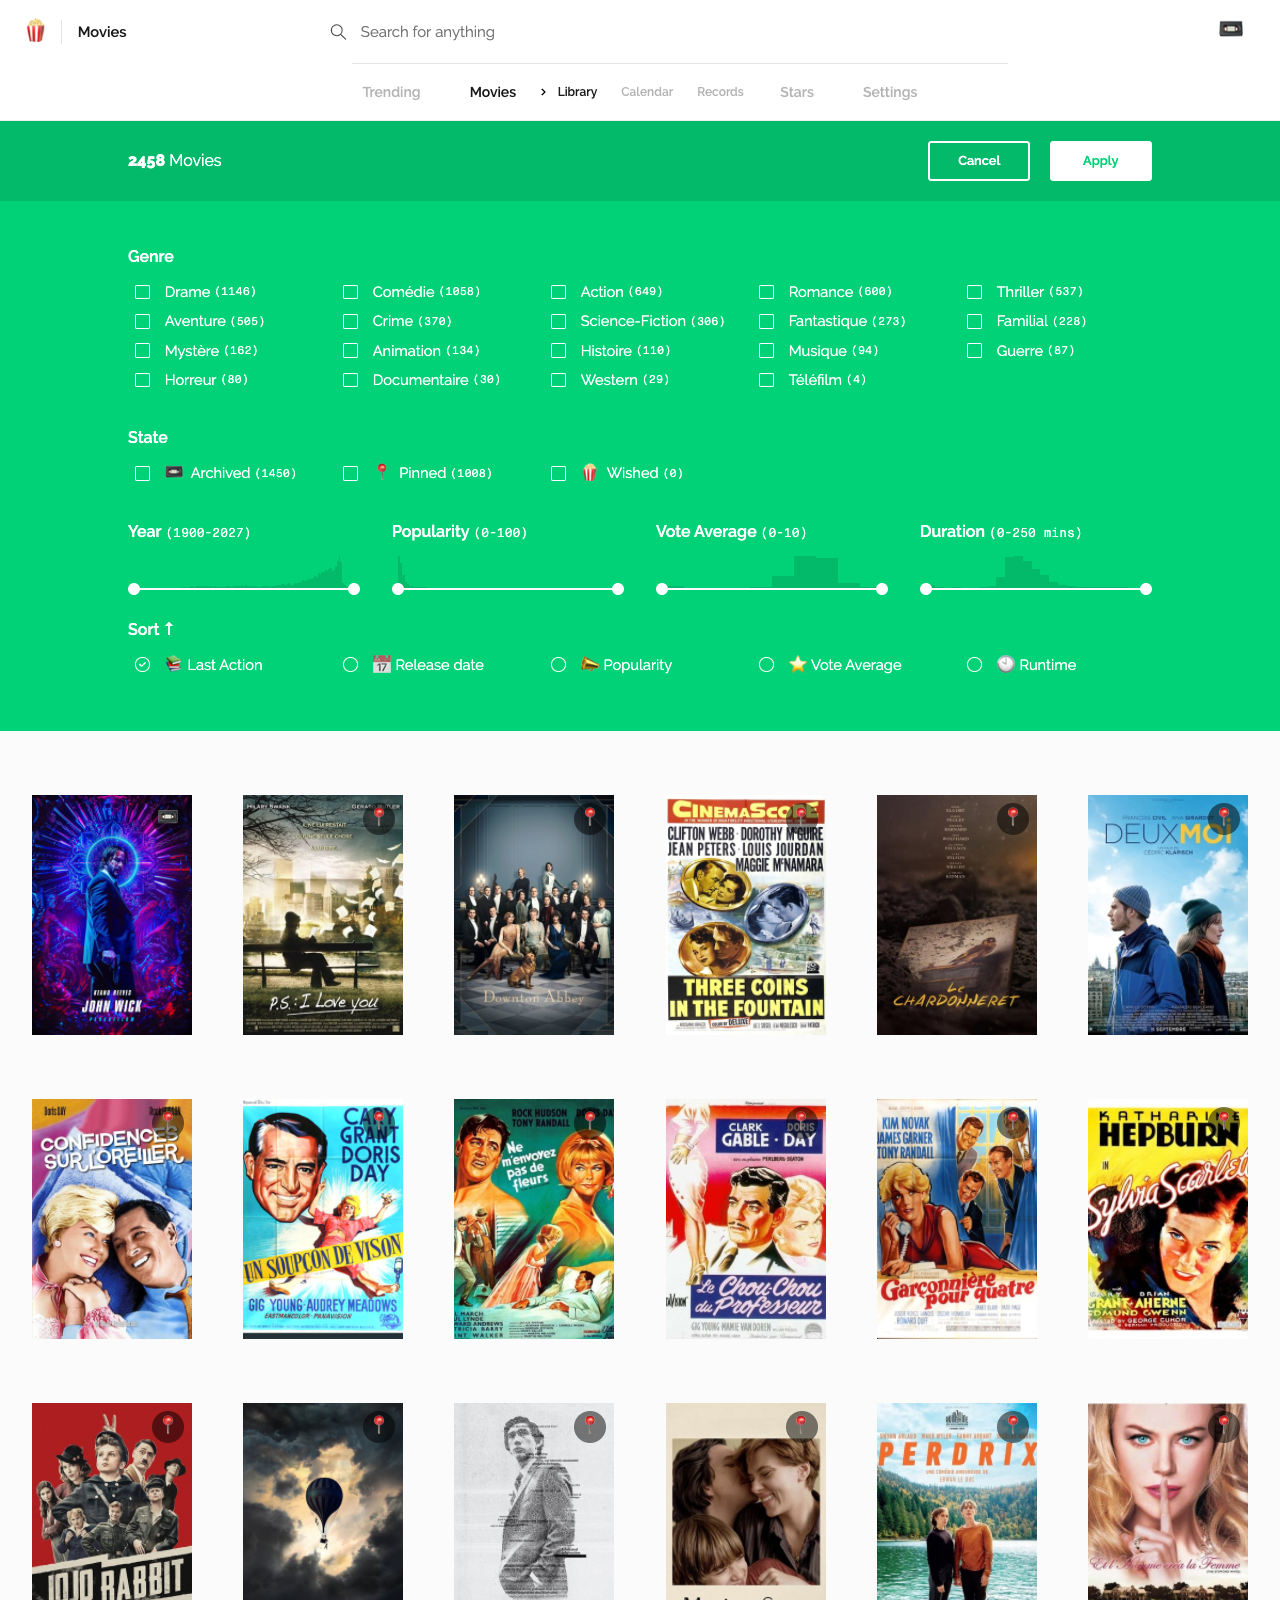
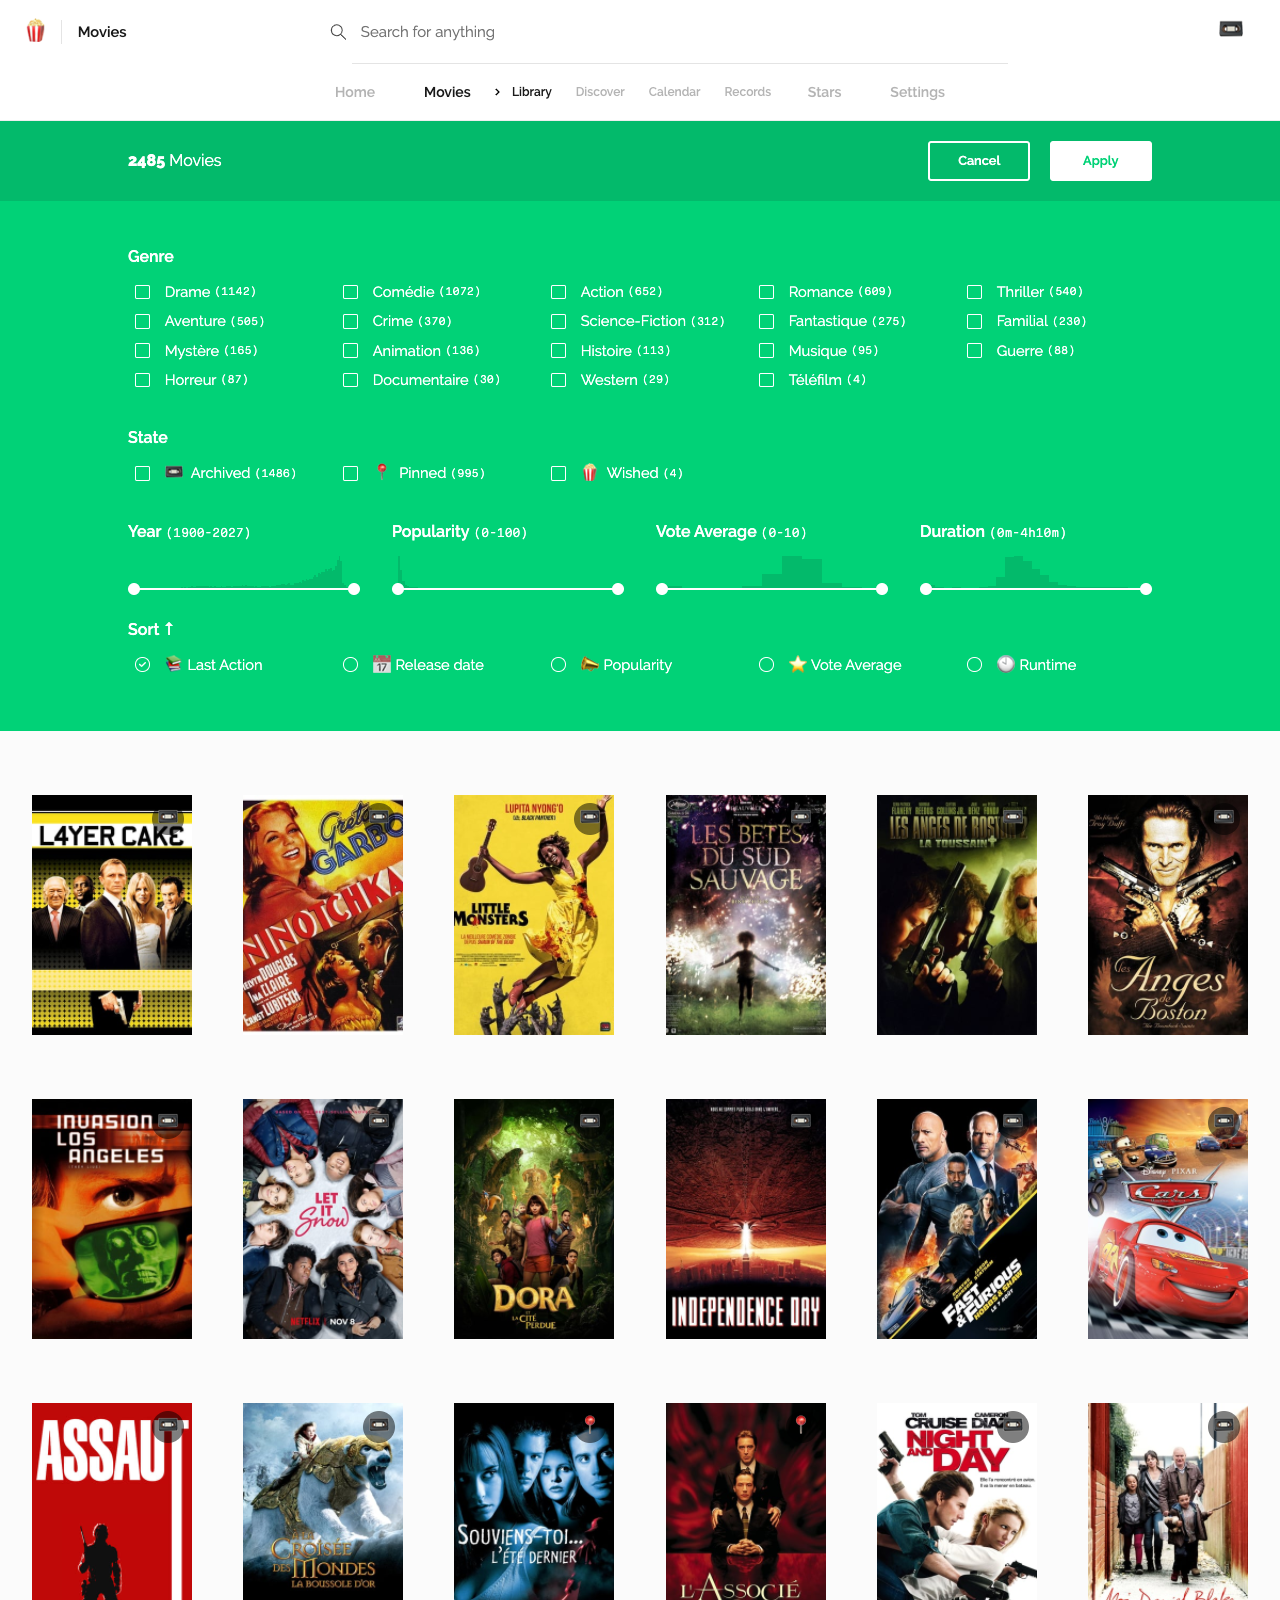
Update screenshots
* Fix screenshots script

diff --git a/.scripts/screenshots.js b/.scripts/screenshots.js
@@ -9,10 +9,11 @@ const VIEWPORT_HEIGHT = 800;
 const pages = [
   [
     'http://localhost:8000',
-    path.join(__dirname, '..', 'doc', 'screenshots', 'trending.png'),
+    path.join(__dirname, '..', 'doc', 'screenshots', 'home.png'),
     {
       fullPage: true,
       beforeScreenshot: async (page, browser) => {
+        await page.waitFor(10 * 1000)
         page.type('[data-test="search-input"]', 'John')
       },
     },
@@ -56,6 +57,19 @@ const pages = [
   [
     'http://localhost:8000/movies/library',
     path.join(__dirname, '..', 'doc', 'screenshots', 'library.png'),
+    {
+      beforeScreenshot: async (page, browser) => {
+        await page.click('[data-test="controls-all"]')
+      },
+      viewport: {
+        width: VIEWPORT_WIDTH,
+        height: VIEWPORT_HEIGHT * 2,
+      },
+    },
+  ],
+  [
+    'http://localhost:8000/movies/discover',
+    path.join(__dirname, '..', 'doc', 'screenshots', 'discover.png'),
     {
       beforeScreenshot: async (page, browser) => {
         await page.click('[data-test="controls-all"]')
@@ -124,10 +138,16 @@ const pages = [
   console.log('')
 
   await page.reload()
+  await page.waitFor(30 * 1000)
+  await page.reload()
 
   for (let [url, path, options = {}] of pages) {
     console.log('💻', 'Loading', url)
-    await page.goto(url, { waitUntil: 'networkidle2' })
+
+    try {
+      await page.goto(url, { waitUntil: 'networkidle2' })
+    } catch (e) {}
+
     await page.waitFor(10 * 1000)
 
     if (options.beforeScreenshot) {

diff --git a/README.md b/README.md
@@ -14,7 +14,7 @@ A simple movie release radar like CouchPotato, Radarr and Watcher3, written in J
     </tr>
     <tr>
       <td>
-      <img src="https://raw.githubusercontent.com/thcolin/sensorr/master/doc/screenshots/trending.png?raw=true" width="100" />
+      <img src="https://raw.githubusercontent.com/thcolin/sensorr/master/doc/screenshots/home.png?raw=true" width="100" />
       </td>
       <td>
         <b>Home</b>
@@ -36,6 +36,17 @@ A simple movie release radar like CouchPotato, Radarr and Watcher3, written in J
         <b>Library</b>
         <ul>
           <li>Manage your movies <code>library</code> (<code>wished</code>, <code>pinned</code> and <code>archived</code>)</li>
+        </ul>
+      </td>
+    </tr>
+    <tr>
+      <td>
+      <img src="https://raw.githubusercontent.com/thcolin/sensorr/master/doc/screenshots/discover.png?raw=true" width="100" />
+      </td>
+      <td>
+        <b>Discover</b>
+        <ul>
+          <li><code>Discover</code> movies with many options</li>
         </ul>
       </td>
     </tr>
